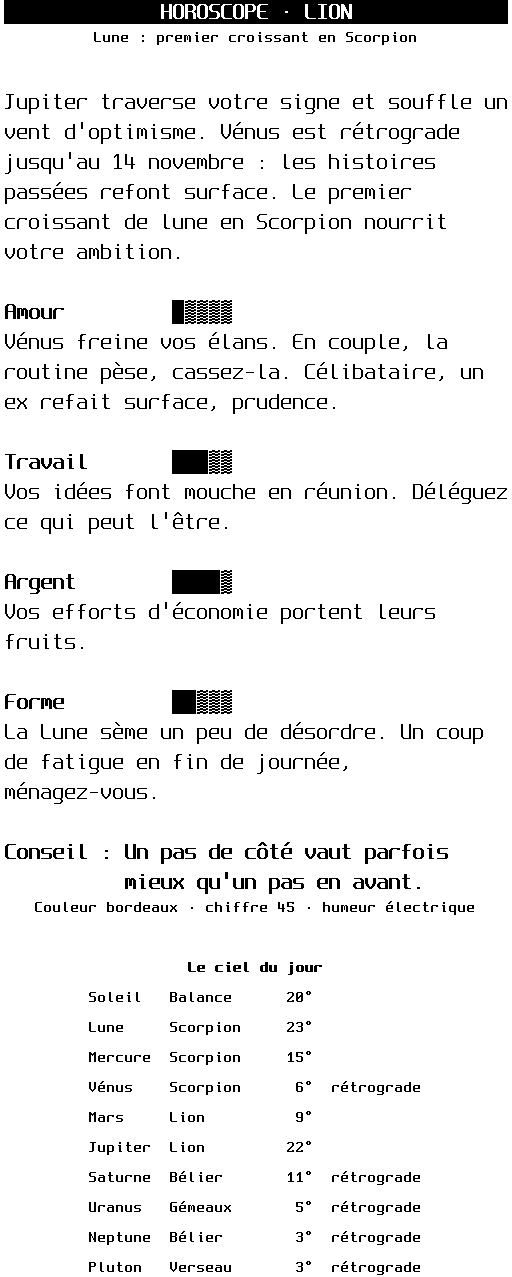
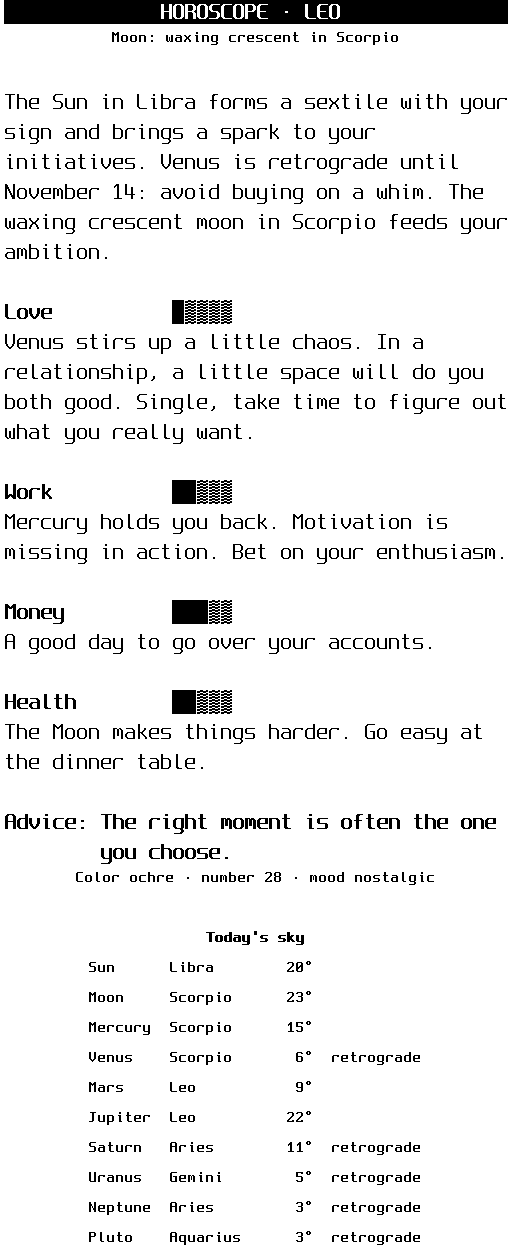
Horoscope Barnum en anglais (Barnum 0.3, --lang en)
Les libellés suivent la langue de la lecture : un Barnum plus ancien, qui refuse --lang,
est relancé en français et le ticket reste entièrement en français.

diff --git a/web/app.js b/web/app.js
@@ -257,7 +257,7 @@ const BLOCKS = [
     summary: (b) => b.location,
   },
   {
-    type: 'barnum', label: T('Horoscope', 'Horoscope'), emoji: '🌟', group: G.daily, desc: T('Le vrai ciel du jour, hors ligne et gratuit', 'The real sky of the day, offline (in French)'),
+    type: 'barnum', label: T('Horoscope', 'Horoscope'), emoji: '🌟', group: G.daily, desc: T('Le vrai ciel du jour, hors ligne et gratuit', 'The real sky of the day, offline and free'),
     defaults: { sign: 'lion', sky: false },
     fields: [
       { key: 'sign', label: T('Signe', 'Sign'), kind: 'select', options: SIGNS },

diff --git a/src/blocks/barnum.rs b/src/blocks/barnum.rs
@@ -2,6 +2,10 @@
 //! (https://github.com/XNinety9/Barnum), appelé en ligne de commande avec `--json`.
 //!
 //! Commande : `$PRINTR_BARNUM` (par exemple `python3 /opt/barnum/main.py`), sinon `barnum`.
+//!
+//! Barnum écrit en français, et en anglais depuis sa version 0.3 (`--lang en`). En anglais, un
+//! Barnum plus ancien refuse l'option : on redemande alors la lecture en français, et tout le
+//! ticket reste en français plutôt que mi-anglais, mi-français.
 
 use std::io::Read;
 use std::process::{Command, Stdio};
@@ -18,6 +22,9 @@ const TIMEOUT: Duration = Duration::from_secs(10);
 
 #[derive(Deserialize)]
 struct Reading {
+    /// Langue de rédaction (« fr », « en ») ; absente avant Barnum 0.3, qui n'écrit qu'en français.
+    #[serde(default)]
+    langue: Option<String>,
     signe: String,
     #[serde(default)]
     lune: Option<Moon>,
@@ -46,6 +53,9 @@ struct Moon {
 #[derive(Deserialize)]
 struct Domain {
     cle: String,
+    /// Nom affiché dans la langue de la lecture (Barnum 0.3) ; sinon, la clé fait l'affaire.
+    #[serde(default)]
+    libelle: Option<String>,
     note: u8,
     texte: String,
 }
@@ -80,13 +90,16 @@ pub fn available() -> bool {
 }
 
 /// Lance Barnum et lit sa réponse JSON.
-fn run(command: &[String], who: &Who, date: NaiveDate, variant: Option<&str>) -> Result<Reading> {
+fn run(command: &[String], who: &Who, date: NaiveDate, variant: Option<&str>, english: bool) -> Result<Reading> {
     let (program, base) = command.split_first().context(i18n::t("commande Barnum vide", "empty Barnum command"))?;
     let mut cmd = Command::new(program);
     cmd.args(base);
     // Options d'abord, sous la forme `--option=valeur`, puis `--` : un signe ou une variante
     // venus de l'appli ne peuvent jamais être pris pour une option de Barnum.
     cmd.arg(format!("--date={date}")).arg("--json");
+    if english {
+        cmd.arg("--lang=en");
+    }
     if let Some(variant) = variant {
         cmd.arg(format!("--sel={variant}"));
     }
@@ -128,10 +141,25 @@ fn run(command: &[String], who: &Who, date: NaiveDate, variant: Option<&str>) ->
     if !status.success() {
         // « barnum: error: signe inconnu : … » : on garde le message utile.
         let message = stderr.lines().last().unwrap_or(i18n::t("erreur inconnue", "unknown error"));
+        if english && message.contains("--lang") {
+            return Err(OldBarnum.into());
+        }
         bail!("{}", message.trim_start_matches("barnum: error: "));
     }
     serde_json::from_str(&stdout).context(i18n::t("réponse de Barnum illisible", "Barnum response unreadable"))
 }
+
+/// Barnum antérieur à 0.3 : il ne connaît pas `--lang`.
+#[derive(Debug)]
+struct OldBarnum;
+
+impl std::fmt::Display for OldBarnum {
+    fn fmt(&self, f: &mut std::fmt::Formatter<'_>) -> std::fmt::Result {
+        f.write_str("Barnum < 0.3 : pas de --lang")
+    }
+}
+
+impl std::error::Error for OldBarnum {}
 
 pub enum Who {
     Sign(String),
@@ -144,14 +172,19 @@ fn gauge(note: u8) -> String {
     format!("{}{}", "█".repeat(note), "░".repeat(5 - note))
 }
 
-/// Le ticket reste en français dans les deux langues : Barnum n'écrit qu'en français, et un
-/// ticket mi-anglais mi-français se lit mal.
+/// Les libellés suivent la langue de la lecture, pas celle de l'installation : un ticket écrit par
+/// un Barnum qui ne parle que français reste entièrement en français.
 fn render(r: &Reading, sky: bool) -> Doc {
+    let lang = if r.langue.as_deref() == Some("en") { i18n::Lang::En } else { i18n::Lang::Fr };
+    i18n::with_lang(lang, || render_in_language(r, sky))
+}
+
+fn render_in_language(r: &Reading, sky: bool) -> Doc {
     let mut doc = Doc::new();
     doc.header(&format!("Horoscope · {}", r.signe));
     if let Some(moon) = &r.lune {
         doc.text(
-            &format!("Lune : {} en {}", moon.phase, moon.signe),
+            &tr!("Lune : {} en {}", "Moon: {} in {}", moon.phase, moon.signe),
             Style::default().small().center(),
         );
     }
@@ -159,32 +192,33 @@ fn render(r: &Reading, sky: bool) -> Doc {
     doc.text(&r.climat, Style::default());
     for d in &r.domaines {
         doc.feed(1);
-        doc.line(&format!("{:<14}{}", i18n::capitalize(&d.cle), gauge(d.note)), Style::default().bold());
+        let name = d.libelle.as_deref().unwrap_or(&d.cle);
+        doc.line(&format!("{:<14}{}", i18n::capitalize(name), gauge(d.note)), Style::default().bold());
         doc.text(&d.texte, Style::default());
     }
     if !r.conseil.is_empty() {
         doc.feed(1);
-        doc.hanging("Conseil : ", &r.conseil, Style::default().bold());
+        doc.hanging(i18n::t("Conseil : ", "Advice: "), &r.conseil, Style::default().bold());
     }
     let mut extras = Vec::new();
     if !r.couleur.is_empty() {
-        extras.push(format!("couleur {}", r.couleur));
+        extras.push(tr!("couleur {}", "color {}", r.couleur));
     }
     if let Some(n) = r.chiffre {
-        extras.push(format!("chiffre {n}"));
+        extras.push(tr!("chiffre {n}", "number {n}"));
     }
     if !r.humeur.is_empty() {
-        extras.push(format!("humeur {}", r.humeur));
+        extras.push(tr!("humeur {}", "mood {}", r.humeur));
     }
     if !extras.is_empty() {
         doc.text(&i18n::capitalize(&extras.join(" · ")), Style::default().small().center());
     }
     if sky && !r.ciel.is_empty() {
         doc.feed(1);
-        doc.text("Le ciel du jour", Style::default().small().bold().center());
+        doc.text(i18n::t("Le ciel du jour", "Today's sky"), Style::default().small().bold().center());
         for b in &r.ciel {
             // Même largeur pour toutes les lignes : les colonnes restent alignées une fois centrées.
-            let retro = if b.retrograde { "rétrograde" } else { "" };
+            let retro = if b.retrograde { i18n::t("rétrograde", "retrograde") } else { "" };
             let line = format!("{:<9}{:<12}{:>3.0}°  {retro:<10}", b.astre, b.signe, b.degre);
             doc.line(&line, Style::default().small().center());
         }
@@ -193,7 +227,11 @@ fn render(r: &Reading, sky: bool) -> Doc {
 }
 
 pub fn build(who: Who, date: NaiveDate, sky: bool, variant: Option<&str>) -> Result<Doc> {
-    let reading = run(&command(), &who, date, variant)?;
+    let command = command();
+    let reading = match run(&command, &who, date, variant, i18n::en()) {
+        Err(e) if e.is::<OldBarnum>() => run(&command, &who, date, variant, false)?,
+        other => other?,
+    };
     Ok(render(&reading, sky))
 }
 
@@ -239,7 +277,39 @@ mod tests {
     fn missing_program_is_explained() {
         let cmd = vec!["printr-barnum-introuvable".to_owned()];
         let date = NaiveDate::from_ymd_opt(2026, 10, 8).unwrap();
-        let err = run(&cmd, &Who::Sign("lion".into()), date, None).err().unwrap();
+        let err = run(&cmd, &Who::Sign("lion".into()), date, None, false).err().unwrap();
         assert!(err.to_string().contains("Barnum introuvable"));
+    }
+
+    #[test]
+    fn english_reading_gets_english_labels() {
+        let json = SAMPLE
+            .replacen('{', r#"{"langue": "en","#, 1)
+            .replace(r#""cle": "amour","#, r#""cle": "amour", "libelle": "Love","#);
+        let reading: Reading = serde_json::from_str(&json).unwrap();
+        let all = lines(&render(&reading, true)).join("\n");
+        assert!(all.contains("Love          █░░░░"));
+        assert!(all.contains("Color violet · number 20 · mood joueuse"));
+        assert!(all.contains("retrograde"));
+    }
+
+    /// Un Barnum d'avant 0.3 refuse `--lang` : en anglais, le ticket sort quand même, en français.
+    #[test]
+    fn old_barnum_falls_back_to_french() {
+        let dir = std::env::temp_dir().join(format!("printr-barnum-{}", std::process::id()));
+        std::fs::create_dir_all(&dir).unwrap();
+        let script = dir.join("old-barnum.sh");
+        std::fs::write(&script, format!(
+            "#!/bin/sh\nfor a in \"$@\"; do [ \"$a\" = --lang=en ] && {{ echo 'main.py: error: unrecognized arguments: --lang=en' >&2; exit 2; }}; done\ncat <<'JSON'\n{SAMPLE}\nJSON\n"
+        )).unwrap();
+        std::fs::set_permissions(&script, std::os::unix::fs::PermissionsExt::from_mode(0o755)).unwrap();
+        let cmd = vec![script.to_string_lossy().into_owned()];
+        let date = NaiveDate::from_ymd_opt(2026, 10, 8).unwrap();
+        let err = run(&cmd, &Who::Sign("lion".into()), date, None, true).err().unwrap();
+        assert!(err.is::<OldBarnum>());
+        let reading = run(&cmd, &Who::Sign("lion".into()), date, None, false).unwrap();
+        let all = i18n::with_lang(i18n::Lang::En, || lines(&render(&reading, false)).join("\n"));
+        assert!(all.contains("Couleur violet"));
+        std::fs::remove_dir_all(&dir).ok();
     }
 }

diff --git a/src/i18n.rs b/src/i18n.rs
@@ -62,7 +62,6 @@ pub fn en() -> bool {
 }
 
 /// Exécute `f` dans la langue donnée, sur ce fil seulement.
-#[cfg(test)]
 pub fn with_lang<T>(lang: Lang, f: impl FnOnce() -> T) -> T {
     let before = FORCED.replace(Some(lang));
     let out = f();

diff --git a/README.fr.md b/README.fr.md
@@ -241,9 +241,10 @@ toute l'installation en anglais : l'interface web, la ligne de commande, les mes
 tickets. Les blocs à contenu (énigmes, citations, mots mêlés, défis sportifs, bons à offrir…) ont
 leur propre liste anglaise, et Claude écrit l'horoscope et le mot du jour en anglais.
 
-Trois blocs restent en français, faute de source anglaise : les **mots fléchés** (dictionnaire et
-définitions de CrossWords), l'**horoscope Barnum** et la **fête du jour**. Les **jours fériés** sont
-ceux de France, nommés en anglais.
+L'**horoscope Barnum**, hors ligne, s'écrit aussi en anglais à partir de Barnum 0.3 (un Barnum
+plus ancien l'imprime en français). Deux blocs restent en français, faute de source anglaise : les
+**mots fléchés** (dictionnaire et définitions de CrossWords) et la **fête du jour**. Les **jours
+fériés** sont ceux de France, nommés en anglais.
 
 ## Interface web
 

diff --git a/README.md b/README.md
@@ -244,9 +244,10 @@ switches the whole installation to English: the web interface, the command line,
 tickets. Blocks with content (riddles, quotes, word searches, workouts, gift coupons…) have their
 own English list, and Claude writes the horoscope and the word of the day in English.
 
-Three blocks stay in French, for lack of an English source: **arrow words** (CrossWords' dictionary
-and definitions), the **Barnum horoscope** and the **name day**. **Public holidays** are the French
-ones, named in English.
+The offline **Barnum horoscope** is written in English too, with Barnum 0.3 or later (an older
+Barnum prints it in French). Two blocks stay in French, for lack of an English source:
+**arrow words** (CrossWords' dictionary and definitions) and the **name day**. **Public holidays**
+are the French ones, named in English.
 
 ## Web interface
 
